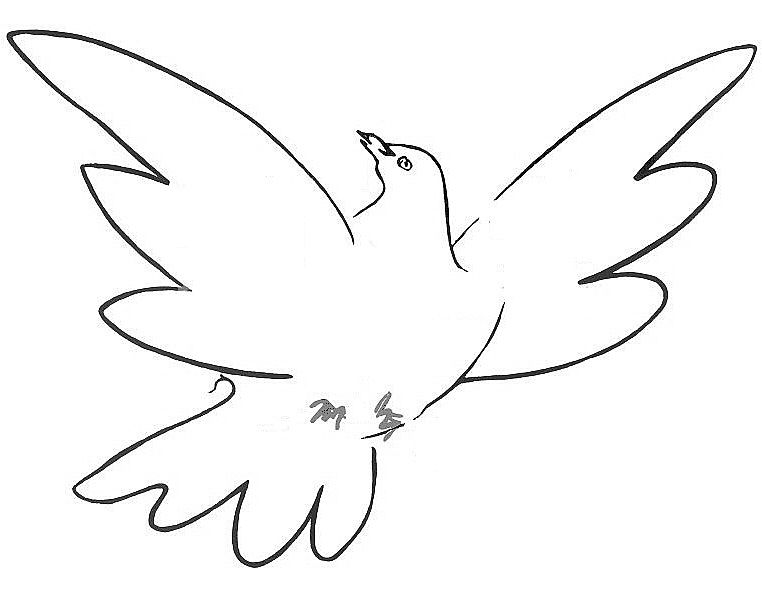
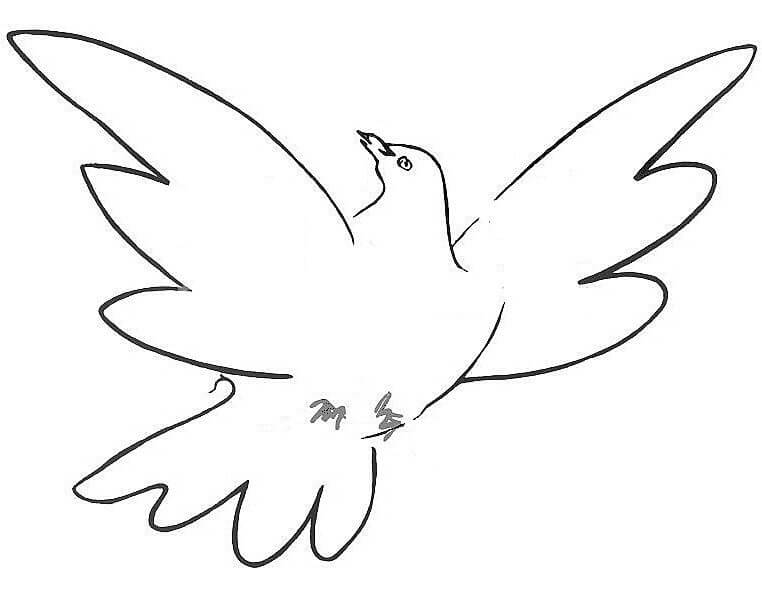
add webp image format to posts, fiction and tweetstorms

diff --git a/_posts/posts/2019-07-02-on-sexual-purity-taboos-and-STIs.md b/_posts/posts/2019-07-02-on-sexual-purity-taboos-and-STIs.md
@@ -5,11 +5,11 @@ date: 2019-07-02 14:16:37 +0200
 description: "Asking for forgivness is viable strategy. It levels the playing field and guarantees that the 'offender' has skin in the game."
 category: posts
 tags: posts culture
-image: assets/images/posts_images/lot-and-his-daughters-master-of-the-prodigal-son.jpg
+image: lot-and-his-daughters-master-of-the-prodigal-son
 imageAlt: "Lot And His Daughters by Meester van de Verloren Zoon"
 ---
 
-[<img src="{{ "/" | relative_url  }}{{ page.image }}" alt="{{ page.imageAlt }}">]({{ page.url }})
+{% include picture.html img=page.image ext="jpg" alt=page.imageAlt link=page.url %}
 
 Scott Alexander in his latest sequence on [cultural evolution](https://slatestarcodex.com/2019/06/04/book-review-the-secret-of-our-success/) speculates that "[STIs played a role in the cultural evolution of taboos against promiscuity and homosexuality](https://slatestarcodex.com/2019/06/19/are-sexual-purity-taboos-a-response-to-stis/)". I doubt this claim.
 

diff --git a/_posts/posts/2019-06-28-ask-for-forgiveness-and-radiate-intent.md b/_posts/posts/2019-06-28-ask-for-forgiveness-and-radiate-intent.md
@@ -5,11 +5,11 @@ date: 2019-06-27 19:12:37 +0200
 description: "Asking for forgivness is viable strategy. It levels the playing field and guarantees that the 'offender' has skin in the game."
 category: posts
 tags: posts advice strategy intent forgiveness
-image: assets/images/posts_images/Return_of_the_Prodigal_Son.jpg
+image: Return_of_the_Prodigal_Son
 imageAlt: "Rembrandt's Return of the Prodigal Son"
 ---
 
-[<img src="{{ "/" | relative_url  }}{{ page.image }}" alt="{{ page.imageAlt }}">]({{ page.url }})
+{% include picture.html img=page.image ext="jpg" alt=page.imageAlt link=page.url %}
 
 [Elizabeth Ayer in her great post takes issue](https://medium.com/@ElizAyer/dont-ask-forgiveness-radiate-intent-d36fd22393a3) with the common [advice attributed to Grace Hopper](https://quoteinvestigator.com/2018/06/19/forgive/): “It’s better to beg forgiveness than ask permission”.
 

diff --git a/_posts/posts/2019-07-02-not-against-human-sexual-selection.md b/_posts/posts/2019-07-02-not-against-human-sexual-selection.md
@@ -5,11 +5,11 @@ date: 2019-07-02 15:16:37 +0200
 description: ""
 category: posts
 tags: posts evolution
-image: assets/images/posts_images/rene_magritte-the_lovers_II.jpg
+image: rene_magritte-the_lovers_II
 imageAlt: "The Lovers II by Rene Magritte"
 ---
 
-[<img src="{{ "/" | relative_url  }}{{ page.image }}" alt="{{ page.imageAlt }}">]({{ page.url }})
+{% include picture.html img=page.image ext="jpg" alt=page.imageAlt link=page.url %}
 
 Tanner Greer posted recently [Against Human Sexual Selection](https://scholars-stage.blogspot.com/2019/05/against-human-sexual-selection.html) on his insightful [blog](https://scholars-stage.blogspot.com/). In it he takes issue with evolutionary psychology for explaing "female mate preferences and male phenotypes (...) through the frame of sexual selection".
 

diff --git a/_posts/fiction/2019-02-03-the-justice-accountant.md b/_posts/fiction/2019-02-03-the-justice-accountant.md
@@ -5,11 +5,11 @@ date:   2019-02-03 17:23:00 +0200
 description: "The Justice Accountant micro fiction"
 category: fiction
 tags: posts fiction micro-fiction
-image: assets/images/fiction_images/the-triumph-of-the-guillotine-in-hell.jpg
+image: the-triumph-of-the-guillotine-in-hell
 imageAlt: "Guillotine in Hell painting"
 ---
 
-[<img src="{{ "/" | relative_url  }}{{ page.image }}" alt="{{ page.imageAlt }}">]({{ page.url }})
+{% include picture.html img=page.image ext="jpg" alt=page.imageAlt link=page.url %}
 
 The Justice Accountant twitched when the last of the executions were coming to an end.
 

diff --git a/_posts/fiction/2019-01-02-the-abyss.md b/_posts/fiction/2019-01-02-the-abyss.md
@@ -5,11 +5,11 @@ date: 2019-01-02 19:49:42 +0200
 description: "The Abyss micro fiction"
 category: fiction
 tags: fiction posts micro-fiction
-image: assets/images/fiction_images/vesuvius_from_portici.jpg
+image: vesuvius_from_portici
 imageAlt: "Vesuvius from Portici painting"
 ---
 
-[<img src="{{ "/" | relative_url  }}{{ page.image }}" alt="{{ page.imageAlt }}">]({{ page.url }})
+{% include picture.html img=page.image ext="jpg" alt=page.imageAlt link=page.url %}
 
 Crossing the border, he closed his eyes.
 

diff --git a/_posts/fiction/2019-07-13-the-aging-currency.md b/_posts/fiction/2019-07-13-the-aging-currency.md
@@ -5,11 +5,11 @@ date:   2019-07-13 17:59:40 +0200
 description: "The Aging Currency micro fiction"
 category: fiction
 tags: posts fiction micro-fiction
-image: assets/images/fiction_images/me_machine.jpg
+image: me_machine
 imageAlt: "Me Machine by Daniel Miller"
 ---
 
-[<img src="{{ "/" | relative_url  }}{{ page.image }}" alt="{{ page.imageAlt }}">]({{ page.url }})
+{% include picture.html img=page.image ext="jpg" alt=page.imageAlt link=page.url %}
 
 The older Emchines were eager to start the ritual.
 
